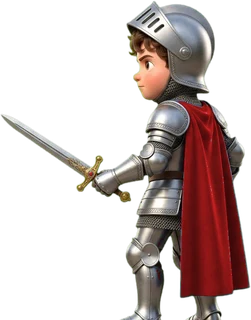
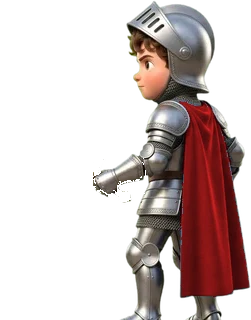
Duel: touch-only controls (left drag move/jump/dodge, right finger controls free sword: guard by angle, slash by swipe), animated separate swords
Claude-Session: https://claude.ai/code/session_012toAEM1r5T8jAdApdWTsPx

diff --git a/index.html b/index.html
@@ -2889,15 +2889,15 @@ function boxArchery(){['img/race/sky.jpg','img/race/ground.jpg','img/k/archer.we
 
 // 2) Knights duel: combos, perfect parries, lightning strike, knockouts
 function boxDuel(){['img/k/courtyard.jpg','img/k/knight0.webp','img/k/knight1.webp','img/k/knight2.webp','img/k/knight3.webp','img/k/knight4.webp'].forEach(jImg);
-  const A=arena(480),{W,H,c}=A,GY=H-56,REACH=W*.44,MINX=W*.1,MAXX=W*.86;
+  const A=arena(560),{W,H,c}=A,GY=H-56,REACH=W*.44,MINX=W*.1,MAXX=W*.86;
   const FOES=[{spr:'knight1',n:'الفارس الأحمر',col:'#B91C1C',plume:'#FCA5A5',tel:.78,rest:[1,1.6],combo:1,feint:0,hp:6,chg:0,spd:55,par:.3},{spr:'knight2',n:'الفارس الأسود',col:'#1F2937',plume:'#9CA3AF',tel:.62,rest:[.8,1.3],combo:2,feint:.12,hp:7,chg:.15,spd:70,par:.38},
     {spr:'knight3',n:'فارس الرمال',col:'#B45309',plume:'#FDE68A',tel:.54,rest:[.7,1.1],combo:3,feint:.2,hp:8,chg:.22,spd:85,par:.42},{spr:'knight4',n:'الفارس المقنّع 👑',col:'#5B21B6',plume:'#F0ABFC',tel:.46,rest:[.6,1],combo:3,feint:.3,hp:10,chg:.3,spd:100,par:.48}];
   const F=lvF(),L=curLv,NF=Math.min(4,1+Math.floor((L-1)/3)),FS=[...FOES.slice(Math.max(0,Math.min(3,Math.floor((L-1)/2))-NF+1)).slice(0,NF)];while(FS.length<NF)FS.push(FOES[3]);
   FS.forEach((f,i)=>{FS[i]={...f,tel:f.tel*(1.15-F*.35),hp:f.hp+Math.floor(L/3),combo:Math.min(3,f.combo+(L>=8?1:0)),feint:Math.min(.45,f.feint+F*.15),chg:L<3?0:Math.min(.4,f.chg+F*.1)}});
   let fi=0,foe,ehp,php=6,es='idle',et=1.2,side='H',seq=[],guard=null,gT=0,gAge=0,stabT=0,cd=0,lunge=0,elunge=0,last=0,state='count',st={},shake=0,beaten=0,blocks=0,perfects=0,dodges=0,flash=0,pflash=0,meter=0,bolt=0,zoom=1,sparks=[],ko=0,crowd=0;
-  let pY=0,pVY=0,drag=null,pX=W*.24,eX=W*.8,pTX=pX,dodgeT=0,combo=0,comboT=0,bestCombo=0,slashes=[],nums=[],walk=0,ewalk=0,eBack=0;
+  let pY=0,pVY=0,drag=null,swPtr=null,pSw=-.5,pSwT=-.5,pOm=0,hint=4,trail=[],pX=W*.24,eX=W*.8,pTX=pX,dodgeT=0,combo=0,comboT=0,bestCombo=0,slashes=[],nums=[],walk=0,ewalk=0,eBack=0;
   const D=()=>eX-pX;
-  const startFoe=()=>{foe=FS[fi];ehp=foe.hp;php=6;es='idle';et=1.6;ko=0;pX=pTX=W*.24;eX=W*.8;combo=0;A.msg(`⚔ الجولة ${fi+1}: ${foe.n}`,'#FFE27A');stat(`${fi+1}/${FS.length}`,beaten);updBtn()};
+  const startFoe=()=>{if(fi===0)hint=4;foe=FS[fi];ehp=foe.hp;php=6;es='idle';et=1.6;ko=0;pX=pTX=W*.24;eX=W*.8;combo=0;A.msg(`⚔ الجولة ${fi+1}: ${foe.n}`,'#FFE27A');stat(`${fi+1}/${FS.length}`,beaten);updBtn()};
   const updBtn=()=>{const b=$('#duS');if(!b)return;b.innerHTML=meter>=1?'⚡ ضربة<br>البرق':'⚔<br>اطعن';b.classList.toggle('charged',meter>=1)};
   const spark=(x,y,n,col)=>{for(let i=0;i<n;i++){const a=Math.random()*7,v=120+Math.random()*260;sparks.push({x,y,vx:Math.cos(a)*v,vy:Math.sin(a)*v-80,l:.5+Math.random()*.4,c:col||'#FFD54A'})}};
   const slash=(x,y,dir,col,big)=>slashes.push({x,y,dir,col:col||'#fff',t:0,big});
@@ -2920,26 +2920,34 @@ function boxDuel(){['img/k/courtyard.jpg','img/k/knight0.webp','img/k/knight1.we
       else if(es==='tel'){if(side==='C'){hurtP(2,'💥 الهجوم الأحمر أقوى! تفادَ ↩')}else{hitE(1,'⚔ تبادل ضربات!');if(ehp>0){hurtP(1,'⚔ تبادل ضربات!');es='idle';et=1}}}}};
   const win1=()=>{beaten++;ko=1;es='down';state='wait';st.slow=.9;zoom=1.2;SFX.fanfare();confetti();crowd=2;A.msg(`🏆 هزمت ${foe.n}!`,'#FFE27A');
     later(()=>{if(state==='end')return;fi++;zoom=1;if(fi>=FS.length)return over(true);state='run';startFoe()},2000)};
-  $('#aopts').innerHTML='<div class="duelbtns d5"><button class="btn" data-du="H">🛡<br>علوي</button><button class="btn" data-du="L">🛡<br>سفلي</button><button class="btn sword" id="duS" data-du="S">⚔<br>اطعن</button><button class="btn jump" data-du="J">🦘<br>قفز</button><button class="btn dodge" data-du="B">↩<br>تفادٍ</button></div><div class="duelmove" dir="ltr"><button class="btn" data-mv="-1">◀ للخلف</button><button class="btn" data-mv="1">للأمام ▶</button></div>';
-  $('#aopts').querySelectorAll('[data-mv]').forEach(b=>{const d=+b.dataset.mv;let iv=null;const go=()=>{pTX=Math.max(MINX,Math.min(eX-W*.15,pX+d*60))};b.addEventListener('pointerdown',e=>{e.preventDefault();go();iv=setInterval(go,90)});['pointerup','pointerleave','pointercancel'].forEach(ev=>b.addEventListener(ev,()=>{clearInterval(iv);pTX=pX}))});
-  $('#aopts').querySelectorAll('[data-du]').forEach(b=>b.addEventListener('pointerdown',e=>{e.preventDefault();act(b.dataset.du)}));
-  {let sx=0,sy=0,st0=0,moved=false;const rx=e=>{const r=A.cv.getBoundingClientRect();return e.clientX-r.left};
-    A.cv.addEventListener('pointerdown',e=>{sx=e.clientX;sy=e.clientY;st0=performance.now();moved=false});
-    A.cv.addEventListener('pointermove',e=>{if(!e.buttons&&e.pointerType!=='touch')return;if(!st0)return;const dx=e.clientX-sx,dy=e.clientY-sy;if(!moved&&performance.now()-st0>140&&Math.abs(dx)>10&&Math.abs(dx)>Math.abs(dy)){moved=true}if(moved)drag={x:rx(e)}});
-    A.cv.addEventListener('pointerup',e=>{const dx=e.clientX-sx,dy=e.clientY-sy,dtm=performance.now()-st0;st0=0;if(moved){moved=false;drag=null;pTX=pX;return}
-      if(Math.max(Math.abs(dx),Math.abs(dy))<18)return act('S');if(Math.abs(dy)>Math.abs(dx))act(dy<0?(dtm<200&&Math.abs(dy)>60?'J':'H'):'L');else act(dx<0?'B':'S')});}bxKeys(A,m=>{if(m==='L')pTX=pX-60;else if(m==='R')pTX=pX+60;else act(m==='U'?'H':m==='D'?'L':m==='S'?'S':null)});
-  $('#aq').innerHTML='<span class="aqe">⚔</span><span>تحرّك بحرية: اسحب إصبعك يمينًا ويسارًا على الساحة أو بالأسهم ◀▶ · 🦘 اقفز فوق الضربة السفلية والحمراء، واطعن وأنت في الهواء لضربة هابطة 🦅</span>';
-  window._arc={get pY(){return pY},act,get es(){return es},get side(){return side},get state(){return state},get fi(){return fi},get ehp(){return ehp},get php(){return php},get meter(){return meter},get et(){return et},get dist(){return D()},REACH};
-  function knight(x,dir,pose,lg,t,hurt,fall,spr,move,glow){const KI=spr&&JIMG['img/k/'+spr+'.webp'];const kh=Math.min(190,H*.42);
+  $('#aopts').innerHTML='';
+  {const ptrs={};const loc=e=>{const r=A.cv.getBoundingClientRect();return {x:(e.clientX-r.left)*W/r.width,y:(e.clientY-r.top)*H/r.height}};
+    A.cv.addEventListener('pointerdown',e=>{e.preventDefault();try{A.cv.setPointerCapture(e.pointerId)}catch(_){}const q=loc(e),z=q.x<W*.45?'move':'sword';ptrs[e.pointerId]={z,x0:q.x,y0:q.y,t0:performance.now(),x:q.x,y:q.y,mv:0};hint=0;if(z==='sword'){swPtr=ptrs[e.pointerId]}});
+    A.cv.addEventListener('pointermove',e=>{const P=ptrs[e.pointerId];if(!P)return;const q=loc(e);P.mv=Math.max(P.mv,Math.hypot(q.x-P.x0,q.y-P.y0));P.x=q.x;P.y=q.y;if(P.z==='move'&&P.mv>8)drag={x:pX+(q.x-P.x0)*1.4,base:1}});
+    const up=e=>{const P=ptrs[e.pointerId];if(!P)return;delete ptrs[e.pointerId];const dt2=performance.now()-P.t0,dx=P.x-P.x0,dy=P.y-P.y0;
+      if(P.z==='move'){drag=null;pTX=pX;if(dt2<300&&dy<-45&&Math.abs(dy)>Math.abs(dx))act('J');else if(dt2<300&&dx<-45&&Math.abs(dx)>Math.abs(dy))act('B');else if(P.mv<10)act('J')}
+      else{if(swPtr===P)swPtr=null;if(P.mv<14&&dt2<260)act('S')}};
+    ['pointerup','pointercancel'].forEach(ev=>A.cv.addEventListener(ev,up))}
+  bxKeys(A,m=>{if(m==='L')pTX=pX-60;else if(m==='R')pTX=pX+60;else act(m==='U'?'H':m==='D'?'L':m==='S'?'S':null)});
+  $('#aq').innerHTML='<span class="aqe">⚔</span><span>👈 يسار الشاشة: اسحب لتمشي · اسحب لأعلى = قفز 🦘 · لليسار = تفادٍ ↩<br>👉 يمين الشاشة: سيفك يتبع إصبعك! ارفعه لصدّ علوي، اخفضه لصدّ سفلي، وحرّكه بسرعة لتضرب ⚔</span>';
+  window._arc={setSword:(x,y)=>{swPtr=x===null?null:{x,y}},get pSw(){return pSw},get guard(){return guard},get pY(){return pY},act,get es(){return es},get side(){return side},get state(){return state},get fi(){return fi},get ehp(){return ehp},get php(){return php},get meter(){return meter},get et(){return et},get dist(){return D()},REACH};
+  function sword(a,dir,len,glow){const r=Math.atan2(Math.sin(a),dir*Math.cos(a));c.save();c.rotate(r);if(glow){c.shadowColor=glow;c.shadowBlur=18}const bl=c.createLinearGradient(0,-4,0,4);bl.addColorStop(0,'#fff');bl.addColorStop(.5,'#D1D5DB');bl.addColorStop(1,'#6B7280');c.fillStyle=bl;c.beginPath();c.moveTo(8,-4);c.lineTo(len,-2);c.lineTo(len+10,0);c.lineTo(len,2);c.lineTo(8,4);c.closePath();c.fill();c.strokeStyle='rgba(255,255,255,.8)';c.lineWidth=1;c.beginPath();c.moveTo(10,-1);c.lineTo(len,-.5);c.stroke();c.shadowBlur=0;
+    c.fillStyle='#D4A017';A.rr(4,-13,7,26,3);c.fill();c.fillStyle='#3B82F6';c.beginPath();c.arc(7.5,0,3,0,7);c.fill();c.fillStyle='#78350F';c.fillRect(-14,-3.5,18,7);c.fillStyle='#D4A017';c.beginPath();c.arc(-15,0,4.5,0,7);c.fill();c.restore()}
+  function knight(x,dir,pose,lg,t,hurt,fall,spr,move,glow,swA,swGlow){const KI=spr&&JIMG['img/k/'+spr+'.webp'];const kh=Math.min(190,H*.42);
     if(KI&&imOk(KI)){const kw=kh*KI.naturalWidth/KI.naturalHeight,rot=(pose==='H'||pose==='GH'?-.09:pose==='L'||pose==='GL'?.1:pose==='S'?.1:pose==='C'?-.14:pose==='B'?-.18:0)*dir,bob=move?-Math.abs(Math.sin(t/90))*6:Math.sin(t/180)*2;
       c.save();c.translate(x+dir*lg*38,GY);c.fillStyle='rgba(30,15,0,.35)';c.beginPath();c.ellipse(0,0,kw*.42,8,0,0,7);c.fill();if(fall)c.rotate(-dir*fall*1.4);c.rotate(rot);
-      if(glow){c.shadowColor=glow;c.shadowBlur=24}if(hurt>0){c.globalAlpha=.75;c.filter='brightness(1.9)'}c.drawImage(KI,-kw*.5,-kh+bob,kw,kh);c.filter='none';c.restore();return}
+      if(glow){c.shadowColor=glow;c.shadowBlur=24}if(hurt>0){c.globalAlpha=.75;c.filter='brightness(1.9)'}c.drawImage(KI,-kw*.5,-kh+bob,kw,kh);c.filter='none';c.globalAlpha=1;if(swA!==undefined){c.save();c.translate((0.606-.5)*kw*dir,-kh+bob+.572*kh);sword(swA-rot*dir,dir,kh*.5,swGlow);c.restore()}c.restore();return}
     c.save();c.translate(x+dir*lg*30,GY);if(fall)c.rotate(-dir*fall*1.4);c.scale(dir,1);if(hurt>0)c.globalAlpha=.65;c.fillStyle='#9CA3AF';A.rr(-17,-82,34,50,9);c.fill();c.beginPath();c.arc(0,-94,15,0,7);c.fill();c.fillStyle='#4B5563';c.fillRect(-12,-34,9,34);c.fillRect(3,-34,9,34);
     const sa=pose==='H'?-1.2:pose==='L'?.8:pose==='S'?-.05:pose==='GH'?-1.45:pose==='GL'?1.05:-.4;c.save();c.translate(15,-64);c.rotate(sa);c.fillStyle='#E5E7EB';c.fillRect(10,-2,56,4);c.restore();c.restore()}
   function frame(t){if(!A.alive())return;const rdt=Math.min(.033,(t-(last||t))/1000);last=t;const dt=bxSlow(st,rdt);
     gT=Math.max(0,gT-dt);gAge+=dt;if(!gT)guard=null;cd=Math.max(0,cd-dt);stabT=Math.max(0,stabT-dt);lunge=Math.max(0,lunge-dt*5);elunge=Math.max(0,elunge-dt*4);shake=Math.max(0,shake-rdt);flash=Math.max(0,flash-dt);pflash=Math.max(0,pflash-dt);bolt=Math.max(0,bolt-rdt);crowd=Math.max(0,crowd-rdt);
     dodgeT=Math.max(0,dodgeT-dt);comboT=Math.max(0,comboT-dt);if(!comboT&&combo&&es!=='stun')combo=0;eBack=Math.max(0,eBack-dt);if(ko)ko=Math.min(1,ko+dt*2);if(!st.slow&&state==='run')zoom+=(1-zoom)*rdt*4;
-    if(drag)pTX=Math.max(MINX,Math.min(eX-W*.16,drag.x));pTX=Math.max(MINX,Math.min(eX-W*.15,pTX));const pm=Math.abs(pTX-pX)>2;if(dodgeT>0)pX+=(pTX-pX)*Math.min(1,dt*14);else{const stp=Math.min(Math.abs(pTX-pX),250*dt);pX+=Math.sign(pTX-pX)*stp}walk=pm&&pY>=0;
+    if(drag){pTX=Math.max(MINX,Math.min(eX-W*.15,drag.x));drag.x=pTX}pTX=Math.max(MINX,Math.min(eX-W*.15,pTX));const pm=Math.abs(pTX-pX)>2;if(dodgeT>0)pX+=(pTX-pX)*Math.min(1,dt*14);else{const stp=Math.min(Math.abs(pTX-pX),250*dt);pX+=Math.sign(pTX-pX)*stp}walk=pm&&pY>=0;
+    {const hx=pX+W*.06,hy=GY-Math.min(190,H*.42)*.43+pY;if(swPtr){pSwT=Math.max(-1.9,Math.min(1.3,Math.atan2(swPtr.y-hy,Math.max(12,swPtr.x-hx))));}else pSwT=stabT>0?0:guard==='H'?-1.25:guard==='L'?.8:dodgeT>0?-.9:-.5;
+      const prev=pSw;pSw+=(pSwT-pSw)*Math.min(1,rdt*(swPtr?22:12));pOm=(pSw-prev)/Math.max(rdt,.001);
+      if(swPtr){trail.push({a:pSw,t:0});const ng=pSw<-.85?'H':pSw>.45?'L':null;if(ng!==guard){guard=ng;gAge=0;if(ng)SFX.note(ng==='H'?620:420)}gT=ng?.12:0;
+        if(Math.abs(pOm)>11&&stabT<=0&&state==='run'&&D()<=REACH+30)act('S')}
+      trail.forEach(q=>q.t+=rdt*5);trail=trail.filter(q=>q.t<1).slice(-10);hint=Math.max(0,hint-rdt)}
     if(pY<0||pVY<0){pVY+=1700*dt;pY+=pVY*dt;if(pY>=0){pY=0;pVY=0;A.burst(pX,GY-4,6,['#E8C887'],80,3)}}
     if(state==='run'){et-=dt;ewalk=false;
       if(eBack>0){eX=Math.min(MAXX,eX+120*dt);ewalk=true}
@@ -2963,13 +2971,15 @@ function boxDuel(){['img/k/courtyard.jpg','img/k/knight0.webp','img/k/knight1.we
       if(L>=9){c.fillStyle='rgba(15,20,70,.45)';c.fillRect(-60,-60,W+120,H+120)}else if(L>=6){c.fillStyle='rgba(249,115,22,.14)';c.fillRect(-60,-60,W+120,H+120)}
       if(crowd>0)for(let k=0;k<10;k++){const x=k*W/9,hop=Math.abs(Math.sin(t/70+k))*12*crowd;c.font='18px sans-serif';c.textAlign='center';c.fillText(['🎉','👏','🙌','⭐'][k%4],x,GY-150-hop)}}
     else{c.fillStyle='#7DD3FC';c.fillRect(-60,-60,W+120,H+120);c.fillStyle='#D6B27A';c.fillRect(-60,GY,W+120,H)}
-    if(foe){const ep=ko?'N':es==='tel'?side:es==='parry'?'GH':elunge>0?'S':'N',glow=es==='tel'&&side==='C'?'#EF4444':null;knight(eX,-1,ep,elunge,t,flash,ko,foe.spr,ewalk,glow);
+    if(foe){const ep=ko?'N':es==='tel'?side:es==='parry'?'GH':elunge>0?'S':'N',glow=es==='tel'&&side==='C'?'#EF4444':null;let ea=-.5+Math.sin(t/300)*.08;if(ko)ea=1.1;else if(es==='tel'){const tt=side==='C'?foe.tel*1.25:foe.tel,pp=Math.max(0,Math.min(1,1-et/tt));ea=side==='H'?-.5-1.4*pp:side==='L'?-.5+1.8*pp:-.5-1.9*pp}else if(elunge>0)ea=side==='L'?-.4+1.7*elunge:.7-2.6*elunge;else if(es==='stun')ea=1;else if(es==='parry')ea=-1.2;
+      knight(eX,-1,ep,elunge,t,flash,ko,foe.spr,ewalk,glow,ea,glow);
       if(es==='tel'&&!ko){const tt=side==='C'?foe.tel*1.25:foe.tel,p=1-et/tt,col=side==='C'?'#EF4444':side==='H'?'#F87171':'#FB923C';c.save();c.globalAlpha=.35+p*.5;c.fillStyle=col;c.beginPath();c.arc(eX-50,GY-(side==='H'?112:side==='C'?84:44),14+p*12,0,7);c.fill();c.restore();
         c.font='bold 34px sans-serif';c.textAlign='center';c.fillText(side==='H'?'⬆':side==='C'?'⚠':'⬇',eX,GY-200);
         c.strokeStyle=side==='C'?'#EF4444':'#fff';c.lineWidth=4;c.beginPath();c.arc(eX,GY-212,22,-Math.PI/2,-Math.PI/2+Math.PI*2*(1-p));c.stroke();if(seq.length){c.fillStyle='#fff';c.font='bold 13px Tajawal';c.fillText(`سلسلة ×${seq.length+1}`,eX,GY-242)}}
       if(es==='stun'&&!ko){c.font='26px sans-serif';c.textAlign='center';c.fillText('💫',eX+Math.sin(t/100)*10,GY-196)}}
     if(dodgeT>0){c.globalAlpha=.3;knight(pX+30,1,'B',0,t,0,0,'knight0',false);c.globalAlpha=1}
-    c.save();c.translate(0,pY);knight(pX,1,pY<-20?'C':dodgeT>0?'B':stabT>.2?'S':guard==='H'?'GH':guard==='L'?'GL':'N',lunge,t,pflash,0,'knight0',walk,meter>=1?'#7CF7FF':null);c.restore();if(pY<0){c.fillStyle='rgba(30,15,0,.25)';c.beginPath();c.ellipse(pX,GY,40*(1+pY/300),6,0,0,7);c.fill()}
+    if(trail.length>2){const kh=Math.min(190,H*.42),hx=pX+W*.05,hy=GY-kh*.43+pY;c.save();c.globalCompositeOperation='lighter';trail.forEach((q,k)=>{if(!k)return;const p0=trail[k-1];c.fillStyle=`rgba(255,255,255,${.22*(1-q.t)})`;c.beginPath();c.moveTo(hx,hy);c.lineTo(hx+Math.cos(p0.a)*kh*.56,hy+Math.sin(p0.a)*kh*.56);c.lineTo(hx+Math.cos(q.a)*kh*.56,hy+Math.sin(q.a)*kh*.56);c.fill()});c.restore()}
+    c.save();c.translate(0,pY);knight(pX,1,pY<-20?'C':dodgeT>0?'B':stabT>.2?'S':guard==='H'?'GH':guard==='L'?'GL':'N',lunge,t,pflash,0,'knight0',walk,meter>=1?'#7CF7FF':null,pSw,meter>=1?'#7CF7FF':(Math.abs(pOm)>8?'#FFFFFF':null));c.restore();if(pY<0){c.fillStyle='rgba(30,15,0,.25)';c.beginPath();c.ellipse(pX,GY,40*(1+pY/300),6,0,0,7);c.fill()}
     if(guard){c.strokeStyle='rgba(124,247,255,.85)';c.lineWidth=4;c.beginPath();c.arc(pX+44,GY-(guard==='H'?110:48),24,-1.4,1.4);c.stroke()}
     slashes.forEach(s=>{const a=1-s.t;c.save();c.translate(s.x,s.y);c.scale(s.dir,1);c.globalAlpha=a;c.strokeStyle=s.col;c.lineWidth=(s.big?10:6)*a+1;c.shadowColor=s.col;c.shadowBlur=14;c.beginPath();c.arc(0,0,(s.big?60:42)+s.t*20,-1.1,1.1);c.stroke();c.restore()});
     if(bolt>0){c.strokeStyle=`rgba(124,247,255,${bolt*1.6})`;c.lineWidth=5;c.beginPath();let x=eX,y=-10;c.moveTo(x,y);while(y<GY-60){x+=(Math.random()-.5)*40;y+=30;c.lineTo(x,y)}c.stroke();c.fillStyle=`rgba(255,255,255,${bolt*.5})`;c.fillRect(-60,-60,W+120,H+120)}
@@ -2982,6 +2992,8 @@ function boxDuel(){['img/k/courtyard.jpg','img/k/knight0.webp','img/k/knight1.we
     c.fillStyle='rgba(0,0,0,.45)';A.rr(W*.04,68,W*.42,10,5);c.fill();c.fillStyle=meter>=1?`hsl(${(t/4)%360},90%,65%)`:'#7CF7FF';A.rr(W*.04,68,W*.42*meter,10,5);c.fill();c.fillStyle='#fff';c.font='10px Tajawal';c.textAlign='center';c.fillText(meter>=1?'⚡ البرق جاهز!':'⚡ شحن البرق',W*.25,92);
     if(state==='run'&&D()>REACH+8&&es!=='tel'){c.fillStyle='rgba(0,0,0,.45)';A.rr(W/2-70,H-46,140,26,13);c.fill();c.fillStyle='#fff';c.font='bold 13px Tajawal';c.textAlign='center';c.fillText('👣 بعيد · اطعن لتتقدّم',W/2,H-28)}
     if(st.slow>0){c.fillStyle='rgba(0,0,0,.25)';c.fillRect(0,0,W,18);c.fillRect(0,H-18,W,18)}
+    if(hint>0&&state==='run'){const al=Math.min(1,hint);c.save();c.globalAlpha=al*.85;c.fillStyle='rgba(0,0,0,.35)';c.fillRect(0,H*.55,W*.45,H*.45);c.fillStyle='rgba(239,68,68,.25)';c.fillRect(W*.45,H*.55,W*.55,H*.45);c.fillStyle='#fff';c.font='bold 17px Tajawal';c.textAlign='center';c.fillStyle='rgba(0,0,0,.55)';A.rr(6,H*.86-22,W*.45-12,50,12);c.fill();A.rr(W*.45+6,H*.86-22,W*.55-12,50,12);c.fill();c.fillStyle='#fff';c.fillText('👣 اسحب لتمشي',W*.22,H*.86);c.font='bold 13px Tajawal';c.fillText('⬆ قفز · ⬅ تفادٍ',W*.22,H*.86+20);c.font='bold 17px Tajawal';c.fillText('⚔ حرّك سيفك هنا',W*.72,H*.86);c.font='bold 13px Tajawal';c.fillText('ارفع/اخفض للصدّ · بسرعة للضرب',W*.72,H*.86+20);c.restore()}
+    else if(state==='run'){c.strokeStyle='rgba(255,255,255,.12)';c.setLineDash([6,8]);c.beginPath();c.moveTo(W*.45,H*.55);c.lineTo(W*.45,H-6);c.stroke();c.setLineDash([])}
     A.hud(0,0,`⚔ ${fi+1}/${FS.length}`);{const e=$('#ahp');if(e)e.style.display='none'}if(state==='count'&&bxCount(A,t,st)){state='run';startFoe()}requestAnimationFrame(frame)}
   function over(win){if(state==='end')return;state='end';A.msg(win?'🏆 بطل المبارزة!':'💔 خسرت المبارزة','#FFC72C');if(win)SFX.fanfare();
     const r=beaten/FS.length,s=r>=1?(php>=3?3:2):r>=.5?1:0;later(()=>A.end(s,3,`هزمت ${beaten} من ${FS.length} ${FS.length===1?'فارس':'فرسان'} · 🛡 ${blocks} صدّ (⚡ ${perfects} مثالي) · 💨 ${dodges} تفادٍ · 🔥 أطول سلسلة ×${bestCombo} · ${r>=1?(php>=3?'فوز ساحق 💪':'حافظ على 3 قلوب للنجمة الثالثة'):'اهزم كل الفرسان للفوز'}`),1500)}
@@ -4041,7 +4053,7 @@ async function openAdmin(){
 $('#admBack').onclick=()=>{hide('adm');history.replaceState(null,'',location.pathname)};
 $('#admRef').onclick=()=>openAdmin();
 // ---- Auto-update: reload when a newer version is published
-const APP_VERSION='2026.11.21-80';
+const APP_VERSION='2026.11.21-81';
 (async()=>{try{if(!/^https?:/.test(location.protocol))return;const r=await fetch(location.pathname+'?check='+Date.now(),{cache:'no-store'});if(!r.ok)return;const t=await r.text(),m=t.match(/const APP_VERSION='([^']+)'/);
   if(m&&m[1]!==APP_VERSION&&sessionStorage.getItem('bw_upd')!==m[1]){sessionStorage.setItem('bw_upd',m[1]);location.replace(location.pathname+'?v='+encodeURIComponent(m[1])+location.hash)}}catch(e){}})();
 // ---- Friends: invite codes, preset voice messages, challenges, leaderboard
